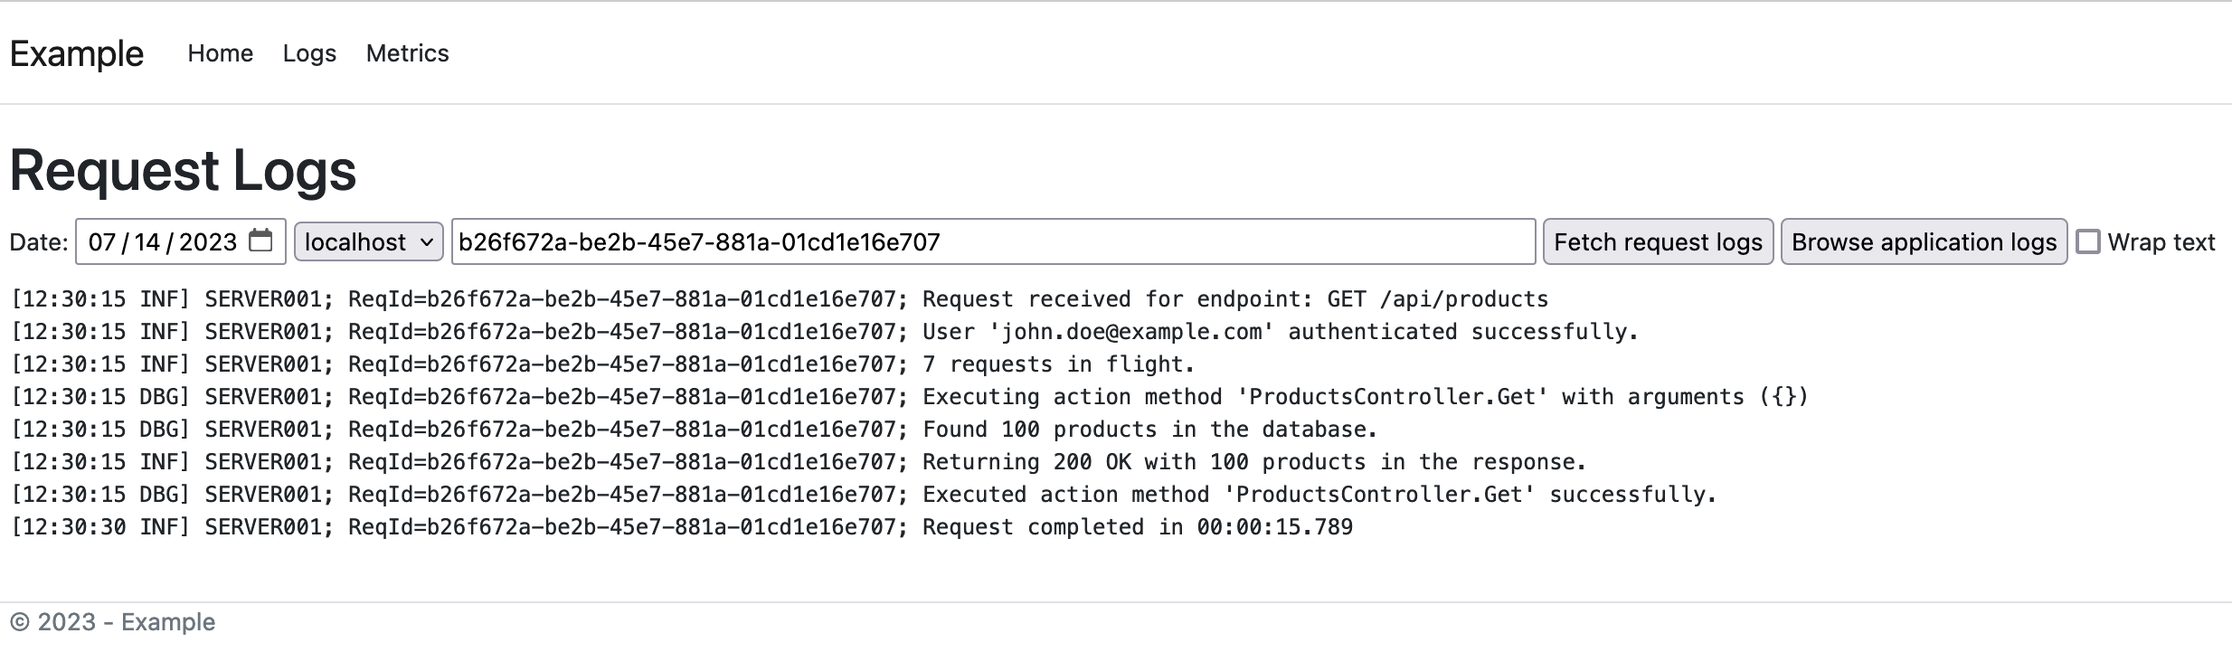
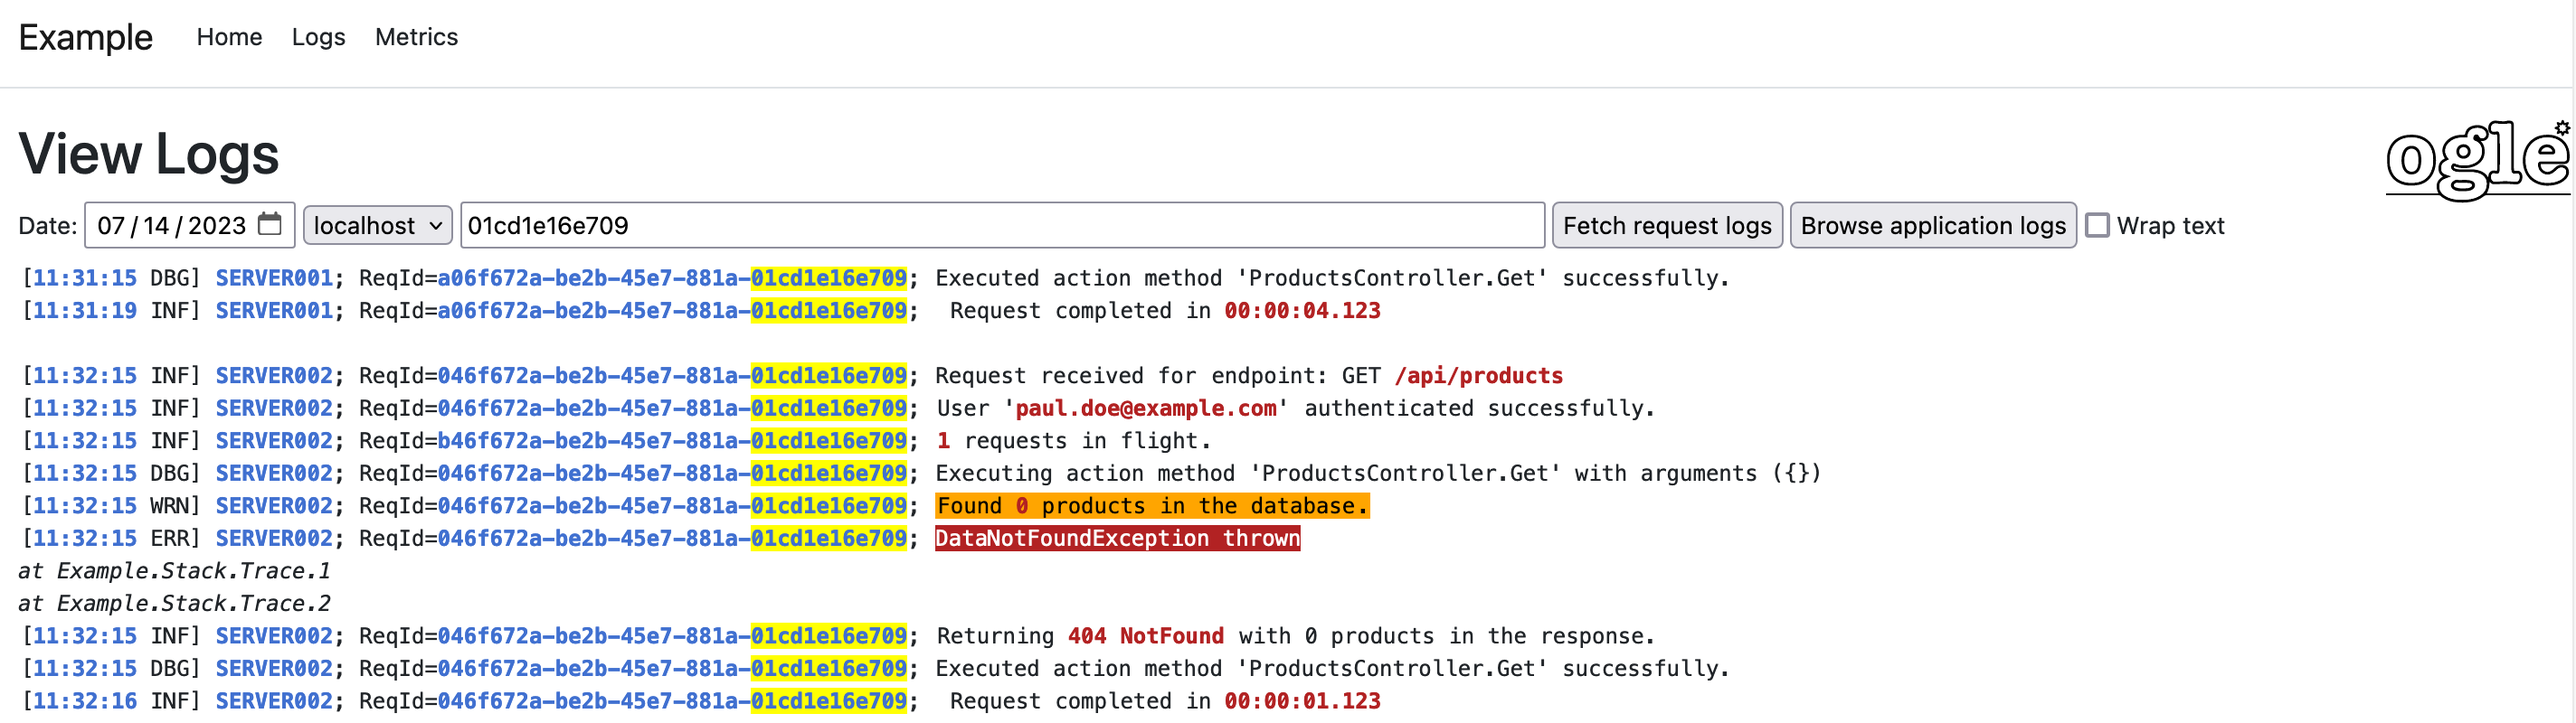
GetLogs: Ajax no longer goes directly to all servers

Changed region(s): [[0.0, 0.186, 0.9984, 0.9919], [0.0, 0.031, 0.2184, 0.124], [0.9048, 0.155, 0.9984, 0.279]]

diff --git a/Ogle/Controllers/OgleController.cs b/Ogle/Controllers/OgleController.cs
@@ -74,20 +74,39 @@ namespace Ogle
             try
             {
                 dynamic logService = LogServiceFactory.CreateInstance(_settings);
-				var sb = new StringBuilder("<pre>\n<b>Filename\t\t\t\tLast write time:\t\tFile size</b>\n");
-				DateOnly? dateOnly = date.HasValue ? DateOnly.FromDateTime(date.Value) : null;
 
-				foreach(var path in logService.GetLogFilenames(dateOnly))
+				var sb = new StringBuilder();
+                var fileNames = new StringBuilder();
+                var fileDates = new StringBuilder();
+                var fileSizes = new StringBuilder();
+                DateOnly? dateOnly = date.HasValue ? DateOnly.FromDateTime(date.Value) : null;
+
+				sb.AppendLine("<div class=\"browseFilesContainer\">");
+				fileNames.AppendLine("<pre>");
+                fileDates.AppendLine("<pre>");
+                fileSizes.AppendLine("<pre>");
+                fileNames.AppendLine("Filename");
+                fileDates.AppendLine("Last write time");
+                fileSizes.AppendLine("File size");
+                foreach (var path in logService.GetLogFilenames(dateOnly))
 				{
 					var fi = new FileInfo(path);
 					var filename = Path.GetFileName(path);
 					var url = Url.Action("DownloadLog", "ogle", new { log = filename }, Request.Scheme, Request.Host.ToUriComponent());
 
-					sb.Append($"<a href=\"{url}\">{filename}</a>\t\t{fi.LastWriteTime}\t{fi.Length,12:N0}\n");
+					fileNames.AppendLine($"<a href=\"{url}\">{filename}</a>");
+                    fileDates.AppendLine(fi.LastWriteTime.ToString());
+					fileSizes.AppendLine($"{fi.Length:N0} bytes");
 				}
-				sb.Append("</pre>\n");
+                fileNames.AppendLine("</pre>");
+                fileDates.AppendLine("</pre>");
+                fileSizes.AppendLine("</pre>");
+				sb.AppendLine(fileNames.ToString());
+                sb.AppendLine(fileDates.ToString());
+                sb.AppendLine(fileSizes.ToString());
+                sb.AppendLine("</div>\n");
 
-				return Content(sb.ToString(), "text/html");
+                return Content(sb.ToString(), "text/html");
             }
             catch (Exception ex)
             {
@@ -109,11 +128,11 @@ namespace Ogle
 				
 				if(id == null)
 				{
-					result = "Please specify a request id or a unique search term";
+					return BadRequest();
 				}
 				else if(!searchPatternMatch.Success)
 				{
-                    result = $"Search term has to match {_settings.CurrentValue.AllowedSearchPattern} regular expresion pattern";
+                    return BadRequest();
                 }
 				else
 				{
@@ -123,7 +142,7 @@ namespace Ogle
 
 					if (string.IsNullOrEmpty(result))
 					{
-						result = $"Request id or search term not found in logs for {date:yyyy-MM-dd}";
+						return NotFound();
 					}
 					else if (highlight)
 					{
@@ -131,13 +150,71 @@ namespace Ogle
                     }
                 }
 
-				return Content(result);
+				return Content($"<pre>\n{result}</pre>\n");
             }
             catch (Exception ex)
             {
                 _logger.LogError(ex, ex.Message);
                 throw;
             }
+        }
+
+		[HttpGet]
+		[Route("/ogle/GetLogsFromAllServers")]
+		public async Task<IActionResult> GetLogsFromAllServers(DateTime? date, string hostname, string id, bool highlight = true)
+		{
+			try
+			{
+                date ??= DateTime.Today.AddDays(-1);
+
+                var searchPatternMatch = new Regex(_settings.CurrentValue.AllowedSearchPattern).Match(id);
+                string result;
+
+				if (id == null)
+				{
+					result = "Please specify a request id or a unique search term";
+				}
+				else if (!searchPatternMatch.Success)
+				{
+					result = $"Search term has to match {_settings.CurrentValue.AllowedSearchPattern} regular expresion pattern";
+				}
+				else
+				{
+					var endpoint = $"/{GetRoutePrefix()}/GetLogs?date={date.Value.ToString("yyyy-MM-dd")}&id={id}&highlight={highlight}";
+					var responses = await CollateJsonResponsesFromServers<string>(hostname, endpoint);
+
+					if (responses.All(i => i.Value.Error != null))
+					{
+						result = string.Join("\n", responses.Values.Select(i => i.Error));
+
+						if (string.IsNullOrWhiteSpace(result))
+						{
+							result = $"Search failed for {date:yyyy-MM-dd}";
+                        }
+
+                        return Problem($"<pre>{result}</pre>");
+					}
+					else
+					{
+						result = string.Join("\n", responses.Where(i => i.Value.Error == null &&
+																		!string.IsNullOrWhiteSpace(i.Value.Payload))
+															.Select(i => i.Value.Payload));
+                        if (string.IsNullOrEmpty(result))
+                        {
+                            result = $"Request id or search term not found in logs for {date:yyyy-MM-dd}";
+                        }
+
+                        return Content(result);	//server responses already contain <pre> containers
+					}
+				}
+
+                return Content($"<pre>{result}</pre>");
+            }
+            catch (Exception ex)
+			{
+				_logger.LogError(ex, ex.Message);
+				throw;
+			}
         }
 
         [HttpGet]
@@ -316,7 +393,7 @@ namespace Ogle
 				}
 
 				var endpoint = $"/{GetRoutePrefix()}/GetMetrics?date={options.Date.Value.ToString("yyyy-MM-dd")}&hourFrom={options.HourFrom}&minuteFrom={options.MinuteFrom}&minutesPerBucket={options.MinutesPerBucket.Value}&numberOfBuckets={options.NumberOfBuckets.Value}";
-                var responses = await CollateJsonResponsesFromServers(endpoint);
+                var responses = await CollateJsonResponsesFromServers<IEnumerable<object>>(endpoint);
 
                 if (responses.All(i => i.Value.Error != null))
                 {
@@ -362,7 +439,7 @@ namespace Ogle
                 //1st save metrics using default groupping
                 var numberOfBuckets = _settings.CurrentValue.DefaultNumberOfBuckets;
                 var endpoint = $"/{GetRoutePrefix()}/GetMetrics?date={date.Value.ToString("yyyy-MM-dd")}&minutesPerBucket={_settings.CurrentValue.DefaultMinutesPerBucket}&numberOfBuckets={numberOfBuckets}";
-                var responses = await CollateJsonResponsesFromServers(endpoint);
+                var responses = await CollateJsonResponsesFromServers<IEnumerable<object>>(endpoint);
 
                 if (responses.All(i => i.Value.Error != null))
                 {
@@ -372,13 +449,13 @@ namespace Ogle
                 {
                     var rowsSaved = 0L;
                     var metrics = responses.Where(i => i.Value.Error == null)
-                                       .SelectMany(i => i.Value.Payload)
-                                       .ToArray();
+										   .SelectMany(i => i.Value.Payload)
+										   .ToArray();
 
                     //2nd save metrics using detailed groupping
                     numberOfBuckets = _settings.CurrentValue.DefaultNumberOfBuckets * _settings.CurrentValue.DrillDownNumberOfBuckets;
                     endpoint = $"/{GetRoutePrefix()}/GetMetrics?date={date.Value.ToString("yyyy-MM-dd")}&minutesPerBucket={_settings.CurrentValue.DrillDownMinutesPerBucket}&numberOfBuckets={numberOfBuckets}";
-                    responses = await CollateJsonResponsesFromServers(endpoint);
+                    responses = await CollateJsonResponsesFromServers<IEnumerable<object>>(endpoint);
 
                     if (responses.All(i => i.Value.Error != null))
                     {
@@ -492,10 +569,15 @@ namespace Ogle
 			return infoUrlBuilder;
 		}
 
-        private async Task<Dictionary<string, NodeResponse<IEnumerable<object>>>> CollateJsonResponsesFromServers(string urlPath)
+        private async Task<Dictionary<string, NodeResponse<TServerResponse>>> CollateJsonResponsesFromServers<TServerResponse>(string urlPath)
 		{
-			var hostnames = _settings.CurrentValue.Hostnames;
-			var result = new ConcurrentBag<(string, NodeResponse<IEnumerable<object>>)>();
+			return await CollateJsonResponsesFromServers<TServerResponse>(null, urlPath);
+        }
+
+		private async Task<Dictionary<string, NodeResponse<TServerResponse>>> CollateJsonResponsesFromServers<TServerResponse>(string? hostname, string urlPath)
+        {
+			var hostnames = string.IsNullOrEmpty(hostname) ? _settings.CurrentValue.Hostnames : new[] { hostname };
+			var result = new ConcurrentBag<(string, NodeResponse<TServerResponse>)>();
 			var tasks = hostnames.Select(async hostname =>
 			{
 				UriBuilder infoUrlBuilder = GetHostnameUrl(Request.Scheme, hostname, urlPath);
@@ -508,9 +590,8 @@ namespace Ogle
                 };
 
 				string responseContent;
-                IEnumerable<object> serverResponse;
-				NodeResponse<IEnumerable<object>> responseWrapper;
-				var options = new JsonSerializerOptions { PropertyNameCaseInsensitive = true };
+                TServerResponse serverResponse;
+				NodeResponse<TServerResponse> responseWrapper;
 
 				try
 				{
@@ -518,11 +599,19 @@ namespace Ogle
 					var type = typeof(IEnumerable<>).MakeGenericType(new[] { _settings.CurrentValue.MetricsType });
 
                     responseContent = await response.Content.ReadAsStringAsync();
-					options.Converters.Add(new JsonTimeSpanConverter());
-                    //serverResponse = ConvertResponseToMetricsType(JsonSerializer.Deserialize(responseContent, type, options));
-                    serverResponse = (IEnumerable<object>)JsonSerializer.Deserialize(responseContent, type, options);
-                    //serverResponse = JsonSerializer.Deserialize<IEnumerable<object>>(responseContent, options);
-                    responseWrapper = new NodeResponse<IEnumerable<object>>
+					if (typeof(TServerResponse) == typeof(string))
+					{
+                        serverResponse = (TServerResponse)(object)responseContent;
+                    }
+                	else
+					{
+						var options = new JsonSerializerOptions { PropertyNameCaseInsensitive = true };
+
+						options.Converters.Add(new JsonTimeSpanConverter());
+						serverResponse = (TServerResponse)JsonSerializer.Deserialize(responseContent, type, options);
+					}
+
+                    responseWrapper = new NodeResponse<TServerResponse>
 					{
 						Payload = serverResponse
 					};
@@ -531,7 +620,7 @@ namespace Ogle
 				{
                     var hre = ex as HttpRequestException;
 
-                    responseWrapper = new NodeResponse<IEnumerable<object>>
+                    responseWrapper = new NodeResponse<TServerResponse>
                     {
                         Error = $"Endpoint {actualServerUrl} returned an error {hre?.StatusCode?.ToString() ?? string.Empty}: {ex.Message}"
                     };

diff --git a/Example/Program.cs b/Example/Program.cs
@@ -52,7 +52,7 @@ namespace Example
             builder.Services.AddControllers(options =>
             {
                 //Uncomment the following line to change the default route prefix
-                //options.UseOgleRoutePrefix("/custom-prefix");
+                //options.UseOgleRoutePrefix("/a/b");
 
                 //Uncomment the following line to assign custom authorization policy to a specific action
                 //options.AddOgleAuthorizationPolicy("SaveMetricsFromAllServers", "Admin");
